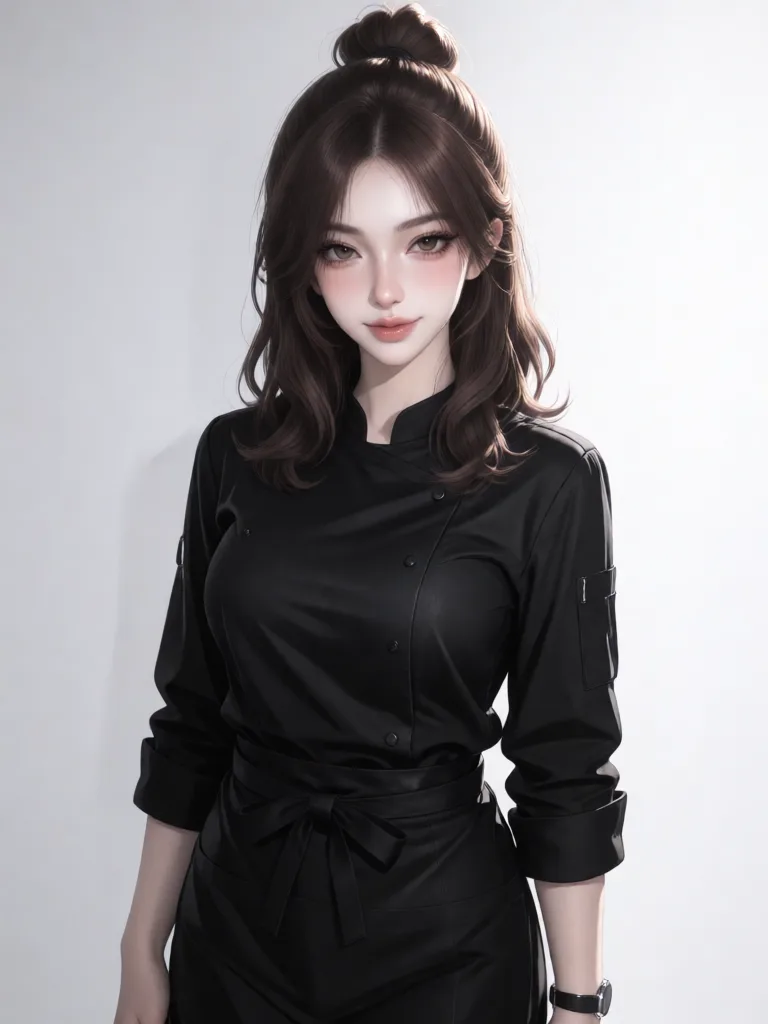
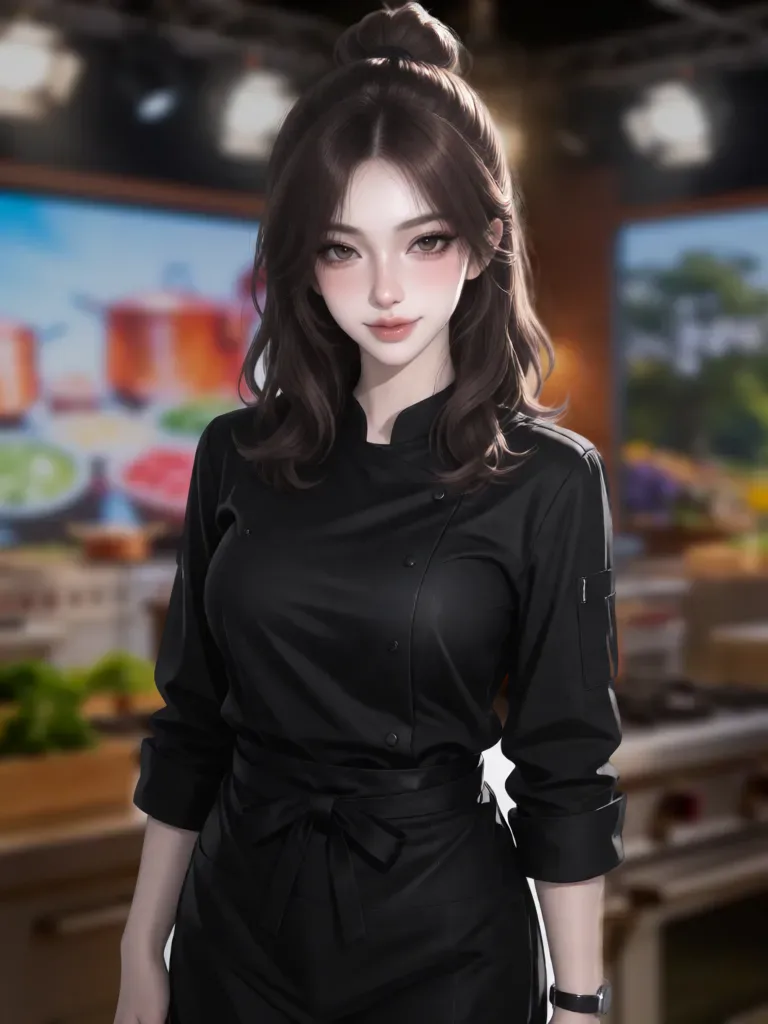
fix(characters): give Noelle's card portrait a scene background; add add-preset-character skill and update character-portrait

diff --git a/.claude/skills/character-portrait/SKILL.md b/.claude/skills/character-portrait/SKILL.md
@@ -55,9 +55,43 @@ Warning: with the Krea + semi style recipe Img2Img did not keep Serena's face (b
 Do not use text-to-image again (the face changes). Use **Img2Img** from the main portrait: same model + LoRA 0.5, strength **0.8**, about 1.26 credits each, and describe a different pose in the prompt. The upload field only accepts JPEG/PNG (not WebP). The free account runs about 2 tasks at once. For the Krea set-up above (Vivienne): Img2Img locks the size to the source image (768×1024 is fine), LoRA 1.0 barely changes the expression, so set both LoRAs to **0.7** with a high denoise; too low a LoRA drifts the face. Use a short prompt that starts with the weighted expression and pose, e.g. `(gentle warm smile:1.4), (happy bright eyes:1.3), head tilted, one hand brushing hair behind her ear, different pose, 1girl, <hair>, <dress>, <necklace>, upper body, photorealistic, glowing porcelain skin, ...`; leave out face/hair/eye detail the source image already has. Its cost is about 2.8 credits per image.
 Save as `public/characters/expressions/<id>_{happy,shy,sad,angry}.webp` (768×1024) and set `expressions` on the character.
 
+## Expressions with a changed pose + cut-outs (Noelle, 2026-11-03: the recipe to use now)
+
+The older notes above say the pose must stay and Serena's set was dropped; Noelle's set worked like this, so prefer it.
+
+1. **Source portrait on a white high-key backdrop** with headroom above the hair (a dark jacket on a dark backdrop cuts out
+   badly, and a clipped ponytail looks "แหว่ง" as a backdrop). Use it only as the Img2Img source and the rembg source.
+2. **8 expressions** (happy, shy, sad, angry, thinking, surprised, teasing, worried), each a visibly different pose:
+   Img2Img from that source, Krea-2 Turbo + semi style LoRA **0.7**, **denoise 0.72**, prompt = weighted eye colour first,
+   then weighted expression + pose, then the short look. An angry face needs a strong prompt (frown, narrowed eyes,
+   crossed arms); the first try looked not angry. Zoom on every picture (hands, extra people). Known leftover: shy,
+   thinking and teasing may show slight bangs that the main portrait does not have; the owner accepted that.
+3. **Cut-outs**: rembg through its **Python API** (the CLI crashes on gradio / `HfFolder`; pip must be upgraded first),
+   model `isnet-general-use`, alpha matting on. Run it in a venv inside the session scratchpad. Save as
+   `public/characters/cutouts/<id>.webp` (main) and `<id>_<key>.webp`, transparent WebP 768×1024.
+4. Contact-sheet all 9 cut-outs before wiring `expressions` and `cutouts` in `constants/characters.js`.
+
+## Downloading many pictures from tensor.art
+
+The "download" helper kept returning the wrong image (a thumbnail or the previous result) and a Create click was dropped
+when the prompt box had grown. What worked: set the prompt with a script, click Create by script, wait for the task to
+finish, take the **largest** result `<img>` in DOM order, and check its `src` differs from the previous one before saving.
+Chrome leaves some downloads as `<uuid>.tmp`; match them by byte size, then look at a contact sheet. Delete duplicates by
+hand. Leftovers in `Downloads` (`.tmp`, `botbaat-*.png`) are the owner's to clean.
+
+## Main portrait needs a background (Noelle, 2026-11-03)
+
+A white-backdrop portrait (made so the cut-out is clean) must NOT be the card avatar: on the home grid it looks empty next to
+the others. Keep the white one only as the rembg source; make `public/characters/<id>.webp` by compositing the cut-out
+(`cutouts/<id>.webp`) over the character's first scene (cover-resize to height 1024, crop centre 768, blur ~6, brightness 0.8)
+with `sharp`. No credits needed.
+
 ## Scene backgrounds (characters with a `sceneSet`)
 
-Prompt: `masterpiece, best quality, semi-realistic, <place>, no people, cinematic, dim moody lighting, bokeh, wide shot, background scenery`. Save as `public/characters/backgrounds/<id>/<scene>.webp` (1152×768, quality 82) and set each scene's `src`.
+Prompt: `masterpiece, best quality, semi-realistic, <place>, no people, cinematic, dim moody lighting, bokeh, wide shot, background scenery`.
+Noelle's 8 scenes used **Krea-2 Turbo with no LoRA**, 1152×768 (not Z-Image-Turbo). Write the place as **empty** (`empty cafe`,
+`empty market stalls`): "no people" alone still brought a blurred crowd. Small text on signs/chalkboards comes out garbled;
+dimmed and blurred in the chat it is fine. Check each scene for tiny figures at the edges. Save as `public/characters/backgrounds/<id>/<scene>.webp` (1152×768, quality 82) and set each scene's `src`.
 
 ## 3. Download into the project
 

diff --git a/.claude/skills/add-preset-character/SKILL.md b/.claude/skills/add-preset-character/SKILL.md
@@ -1,0 +1,56 @@
+---
+name: add-preset-character
+description: Checklist for adding a new preset character to Botbaat (data, profile, hidden story truth, portrait, expressions, cut-outs, scene set, test, deploy). Use when the owner pastes a plot/character card and asks for a new character ("อยากได้ตัวละครใหม่", "เพิ่มตัวละคร", "add a preset").
+---
+
+# Add a preset character
+
+Worked example: Noelle (2026-11-03, see `worklog.md`). Reply to the owner in Thai.
+
+## 1. Data (files to touch)
+
+- `constants/characters.js` — new entry in `BASE_CHARACTERS`: `id`, `name`, `tagline`, `description`, `greeting`, `exampleDialogue`,
+  `category`, `scenario`, `realism`, `userRoleHint`, `defaultUserRole`, `situation`, `opening { time, place, mood, background }`,
+  `avatar`, `background`, `sceneSet`, `expressions`, `cutouts`. `userSecret` only if the plot gives the player a secret.
+- `constants/characterProfiles.js` — `profile`, `cast` (supporting people), `storyHooks` (events the model may bring in).
+- `constants/storyArcs.js` — `STORY_ARCS.<id>`: the hidden `truthStages` (see 2).
+- `CLAUDE.md` (preset count, lists of truth / cut-outs / sceneSet) and `worklog.md` (newest entry on top).
+
+`situation` must state the open questions and tell the model NOT to decide the answers. Anything the story leans on that the
+model would otherwise invent on turn 1 (an ingredient, a person, an object) must be named once, with no reason, or replies
+contradict the hidden story. Noelle's real test showed exactly this.
+
+## 2. Hidden truth — the owner must stay surprised
+
+Never print, quote or summarize stage texts (chat, worklog, commits, UI). Delegate to a subagent: it writes `STORY_ARCS.<id>`
+and edits stages on request, and reports only lengths and booleans. Stage text <= 1800 chars. Check in code that the other
+characters still have 4 stages and the prompt builds. If the owner says "ขั้นที่ N ไม่เข้า", send that to the subagent blind.
+Don't open `constants/storyArcs.js` with Read/Grep output you will show.
+
+## 3. Pictures (skill `character-portrait`)
+
+Order: main portrait on a white high-key backdrop -> 8 expressions (changed pose) -> rembg cut-outs -> main portrait
+composited over a scene (the card avatar must have a background) -> 8 scenes in `public/characters/backgrounds/<id>/`.
+Everything WebP via `sharp` (portraits 768×1024 q82, scenes 1152×768). Show the owner each picture type before the next:
+faces must not look like an existing character (Serena/Vivienne).
+
+## 4. Verify
+
+- Node check scripts need a resolve hook because imports have no `.js` extension (see `CLAUDE.md`): data merges, prompt builds,
+  `truthFor` stages, 8 expression + 9 cut-out files exist, all `sceneSet` paths exist.
+- Run the app without login: main folder, `NEXT_PUBLIC_SUPABASE_URL=` and `NEXT_PUBLIC_SUPABASE_ANON_KEY=` set empty,
+  `npx next dev -p 3002` (a temp copy with a `node_modules` junction breaks webpack). Check card, profile sheet, opening card,
+  backdrop, cut-out.
+- One real Gemini message (quota is tiny; never loop). Look for: in character, no invented facts, scene tag present.
+- `next build` before pushing.
+
+## 5. Ship
+
+One commit for assets + data, separate commits for later fixes. Pushing to `main` deploys production: confirm with the owner
+first. After deploy, open the live card and check the asset URLs return 200.
+
+## Gotchas
+
+- The shell here mangles backslashes in heredocs; write scripts with the Write tool.
+- dcg blocks recursive `Remove-Item`, runtime-expanded PowerShell launchers and `sleep` chains: use Monitor plus run scripts.
+- Raw `{😠}` mood markers must not show in the chat-list preview (`lastMessagePreview` strips them).

diff --git a/worklog.md b/worklog.md
@@ -3,6 +3,13 @@
 บันทึกงานที่ทำเสร็จ ใหม่สุดอยู่บนสุด (กฎอยู่ใน `CLAUDE.md` → Conventions)
 
 ---
+## 2026-11-03 (ท้ายวัน) — รูปการ์ดโนเอลมีพื้นหลัง + skills
+
+- เจ้าของชี้ว่ารูปหลักพื้นขาวทำให้การ์ดโล่ง: `public/characters/noelle.webp` ตอนนี้เป็น cut-out ซ้อนบนฉาก studio_kitchen (เบลอ 6, มืดลง 20%) ด้วย `sharp` ไม่เสียเครดิต; ภาพพื้นขาวเดิมใช้เป็นต้นทาง rembg เท่านั้น. ขอบมีเศษขาวเล็กมากตรงช่องแขนขวา ยังไม่ได้ดูในแอปจริง
+- `.claude/skills/character-portrait/SKILL.md`: เพิ่มสูตร expression เปลี่ยนท่า + cut-out ด้วย rembg Python API, วิธีโหลดหลายรูปจาก tensor.art, สูตรฉาก Krea-2 Turbo (เขียน "empty"), กฎ "รูปหลักต้องมีพื้นหลัง"
+- skill ใหม่ `.claude/skills/add-preset-character/SKILL.md`: เช็กลิสต์เพิ่มตัวละครทั้งตัว; `CLAUDE.md` ชี้ไปที่ skill นี้
+
+---
 ## 2026-11-03 — ตัวละครใหม่ โนเอล (`noelle`)
 
 - พล็อต "คู่แข่งคนโปรด": เชฟขนมหวาน 24 ปี ถูกจับคู่แข่งรายการ THE PERFECT PLATE กับผู้เล่น (โรแมนติกคอมเมดี้ จีบยากนิดหนึ่งแต่ไม่เย็นชา)

diff --git a/CLAUDE.md b/CLAUDE.md
@@ -164,6 +164,7 @@ The owner builds it for themselves and their partner. Reply to the owner in Thai
 - Installable app: `app/manifest.js`, `appleWebApp` in `app/layout.js`, icons in `public/icons/` + `app/*icon.png`.
 - `components/UserRoleModal.jsx` — "บทบาทของฉัน"; opens by itself the first time a character is opened (`user_role_prompted` in the store). Nothing is required; empty fields use `defaultUserRole`.
 - `.claude/skills/character-portrait/` — how to generate a character portrait on tensor.art and wire it in.
+- `.claude/skills/add-preset-character/` — checklist for adding a whole new preset (data, hidden truth via subagent, pictures, test, deploy).
 
 ## Conventions
 
